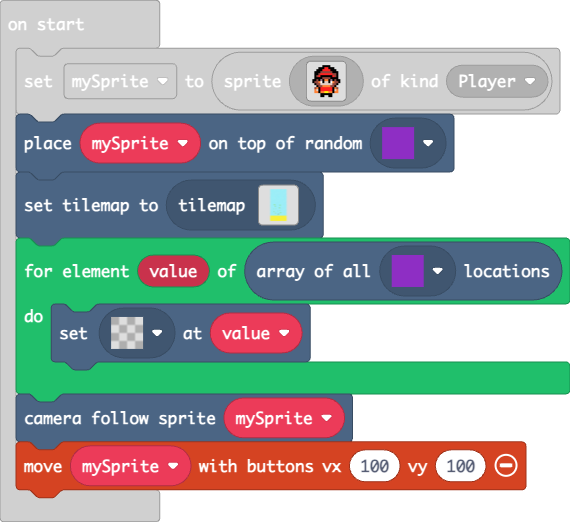
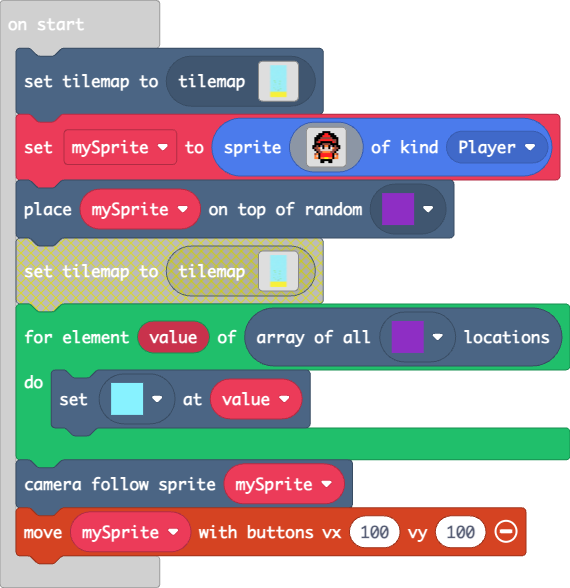
Update main.blocks, main.ts, tilemap.g.jres, tilemap.g.ts

diff --git a/tilemap.g.ts b/tilemap.g.ts
@@ -137,6 +137,82 @@ namespace myTiles {
 ..............................
 ..............................
 `, [myTiles.transparency16,myTiles.tile1,myTiles.tile3,myTiles.tile6,myTiles.tile5], TileScale.Sixteen);
+            case "level5":
+            case "level5":return tiles.createTilemap(hex`1000100000000000000000000000000000000000000000000000000000000000000000000000000000000000000000000000000000000000000000000000000000000000000000000000000000000000000000000000000000000000000000000000000000000000000000000000000000000000000000000000000000000000000000000000000000000000000000000000000000000000000000000000000000000000000000000000000000000000000000000000000000000000000000000000000000000000000000000000000000000000000000000000000000000000000000000000000000000000000000000000000000000000000000000000000000000000`, img`
+. . . . . . . . . . . . . . . . 
+. . . . . . . . . . . . . . . . 
+. . . . . . . . . . . . . . . . 
+. . . . . . . . . . . . . . . . 
+. . . . . . . . . . . . . . . . 
+. . . . . . . . . . . . . . . . 
+. . . . . . . . . . . . . . . . 
+. . . . . . . . . . . . . . . . 
+. . . . . . . . . . . . . . . . 
+. . . . . . . . . . . . . . . . 
+. . . . . . . . . . . . . . . . 
+. . . . . . . . . . . . . . . . 
+. . . . . . . . . . . . . . . . 
+. . . . . . . . . . . . . . . . 
+. . . . . . . . . . . . . . . . 
+. . . . . . . . . . . . . . . . 
+`, [myTiles.transparency16], TileScale.Sixteen);
+            case "level6":
+            case "level6":return tiles.createTilemap(hex`1000100000000000000000000000000000000000000000000000000000000000000000000000000000000000000000000000000000000000000000000000000000000000000000000000000000000000000000000000000000000000000000000000000000000000000000000000000000000000000000000000000000000000000000000000000000000000000000000000000000000000000000000000000000000000000000000000000000000000000000000000000000000000000000000000000000000000000000000000000000000000000000000000000000000000000000000000000000000000000000000000000000000000000000000000000000000000`, img`
+. . . . . . . . . . . . . . . . 
+. . . . . . . . . . . . . . . . 
+. . . . . . . . . . . . . . . . 
+. . . . . . . . . . . . . . . . 
+. . . . . . . . . . . . . . . . 
+. . . . . . . . . . . . . . . . 
+. . . . . . . . . . . . . . . . 
+. . . . . . . . . . . . . . . . 
+. . . . . . . . . . . . . . . . 
+. . . . . . . . . . . . . . . . 
+. . . . . . . . . . . . . . . . 
+. . . . . . . . . . . . . . . . 
+. . . . . . . . . . . . . . . . 
+. . . . . . . . . . . . . . . . 
+. . . . . . . . . . . . . . . . 
+. . . . . . . . . . . . . . . . 
+`, [myTiles.transparency16], TileScale.Sixteen);
+            case "level7":
+            case "level7":return tiles.createTilemap(hex`1000100000000000000000000000000000000000000000000000000000000000000000000000000000000000000000000000000000000000000000000000000000000000000000000000000000000000000000000000000000000000000000000000000000000000000000000000000000000000000000000000000000000000000000000000000000000000000000000000000000000000000000000000000000000000000000000000000000000000000000000000000000000000000000000000000000000000000000000000000000000000000000000000000000000000000000000000000000000000000000000000000000000000000000000000000000000000`, img`
+. . . . . . . . . . . . . . . . 
+. . . . . . . . . . . . . . . . 
+. . . . . . . . . . . . . . . . 
+. . . . . . . . . . . . . . . . 
+. . . . . . . . . . . . . . . . 
+. . . . . . . . . . . . . . . . 
+. . . . . . . . . . . . . . . . 
+. . . . . . . . . . . . . . . . 
+. . . . . . . . . . . . . . . . 
+. . . . . . . . . . . . . . . . 
+. . . . . . . . . . . . . . . . 
+. . . . . . . . . . . . . . . . 
+. . . . . . . . . . . . . . . . 
+. . . . . . . . . . . . . . . . 
+. . . . . . . . . . . . . . . . 
+. . . . . . . . . . . . . . . . 
+`, [myTiles.transparency16], TileScale.Sixteen);
+            case "level8":
+            case "level8":return tiles.createTilemap(hex`1000100000000000000000000000000000000000000000000000000000000000000000000000000000000000000000000000000000000000000000000000000000000000000000000000000000000000000000000000000000000000000000000000000000000000000000000000000000000000000000000000000000000000000000000000000000000000000000000000000000000000000000000000000000000000000000000000000000000000000000000000000000000000000000000000000000000000000000000000000000000000000000000000000000000000000000000000000000000000000000000000000000000000000000000000000000000000`, img`
+. . . . . . . . . . . . . . . . 
+. . . . . . . . . . . . . . . . 
+. . . . . . . . . . . . . . . . 
+. . . . . . . . . . . . . . . . 
+. . . . . . . . . . . . . . . . 
+. . . . . . . . . . . . . . . . 
+. . . . . . . . . . . . . . . . 
+. . . . . . . . . . . . . . . . 
+. . . . . . . . . . . . . . . . 
+. . . . . . . . . . . . . . . . 
+. . . . . . . . . . . . . . . . 
+. . . . . . . . . . . . . . . . 
+. . . . . . . . . . . . . . . . 
+. . . . . . . . . . . . . . . . 
+. . . . . . . . . . . . . . . . 
+. . . . . . . . . . . . . . . . 
+`, [myTiles.transparency16], TileScale.Sixteen);
         }
         return null;
     })

diff --git a/main.ts b/main.ts
@@ -1,3 +1,4 @@
+tiles.setCurrentTilemap(tilemap`level4`)
 let mySprite = sprites.create(img`
     . . . . . . f f f f . . . . . . 
     . . . . f f f 2 2 f f f . . . . 
@@ -17,9 +18,8 @@ let mySprite = sprites.create(img`
     . . . . . f f . . f f . . . . . 
     `, SpriteKind.Player)
 tiles.placeOnRandomTile(mySprite, assets.tile`myTile3`)
-tiles.setCurrentTilemap(tilemap`level4`)
 for (let value of tiles.getTilesByType(assets.tile`myTile3`)) {
-    tiles.setTileAt(value, assets.tile`transparency16`)
+    tiles.setTileAt(value, assets.tile`myTile`)
 }
 scene.cameraFollowSprite(mySprite)
 controller.moveSprite(mySprite, 100, 100)
